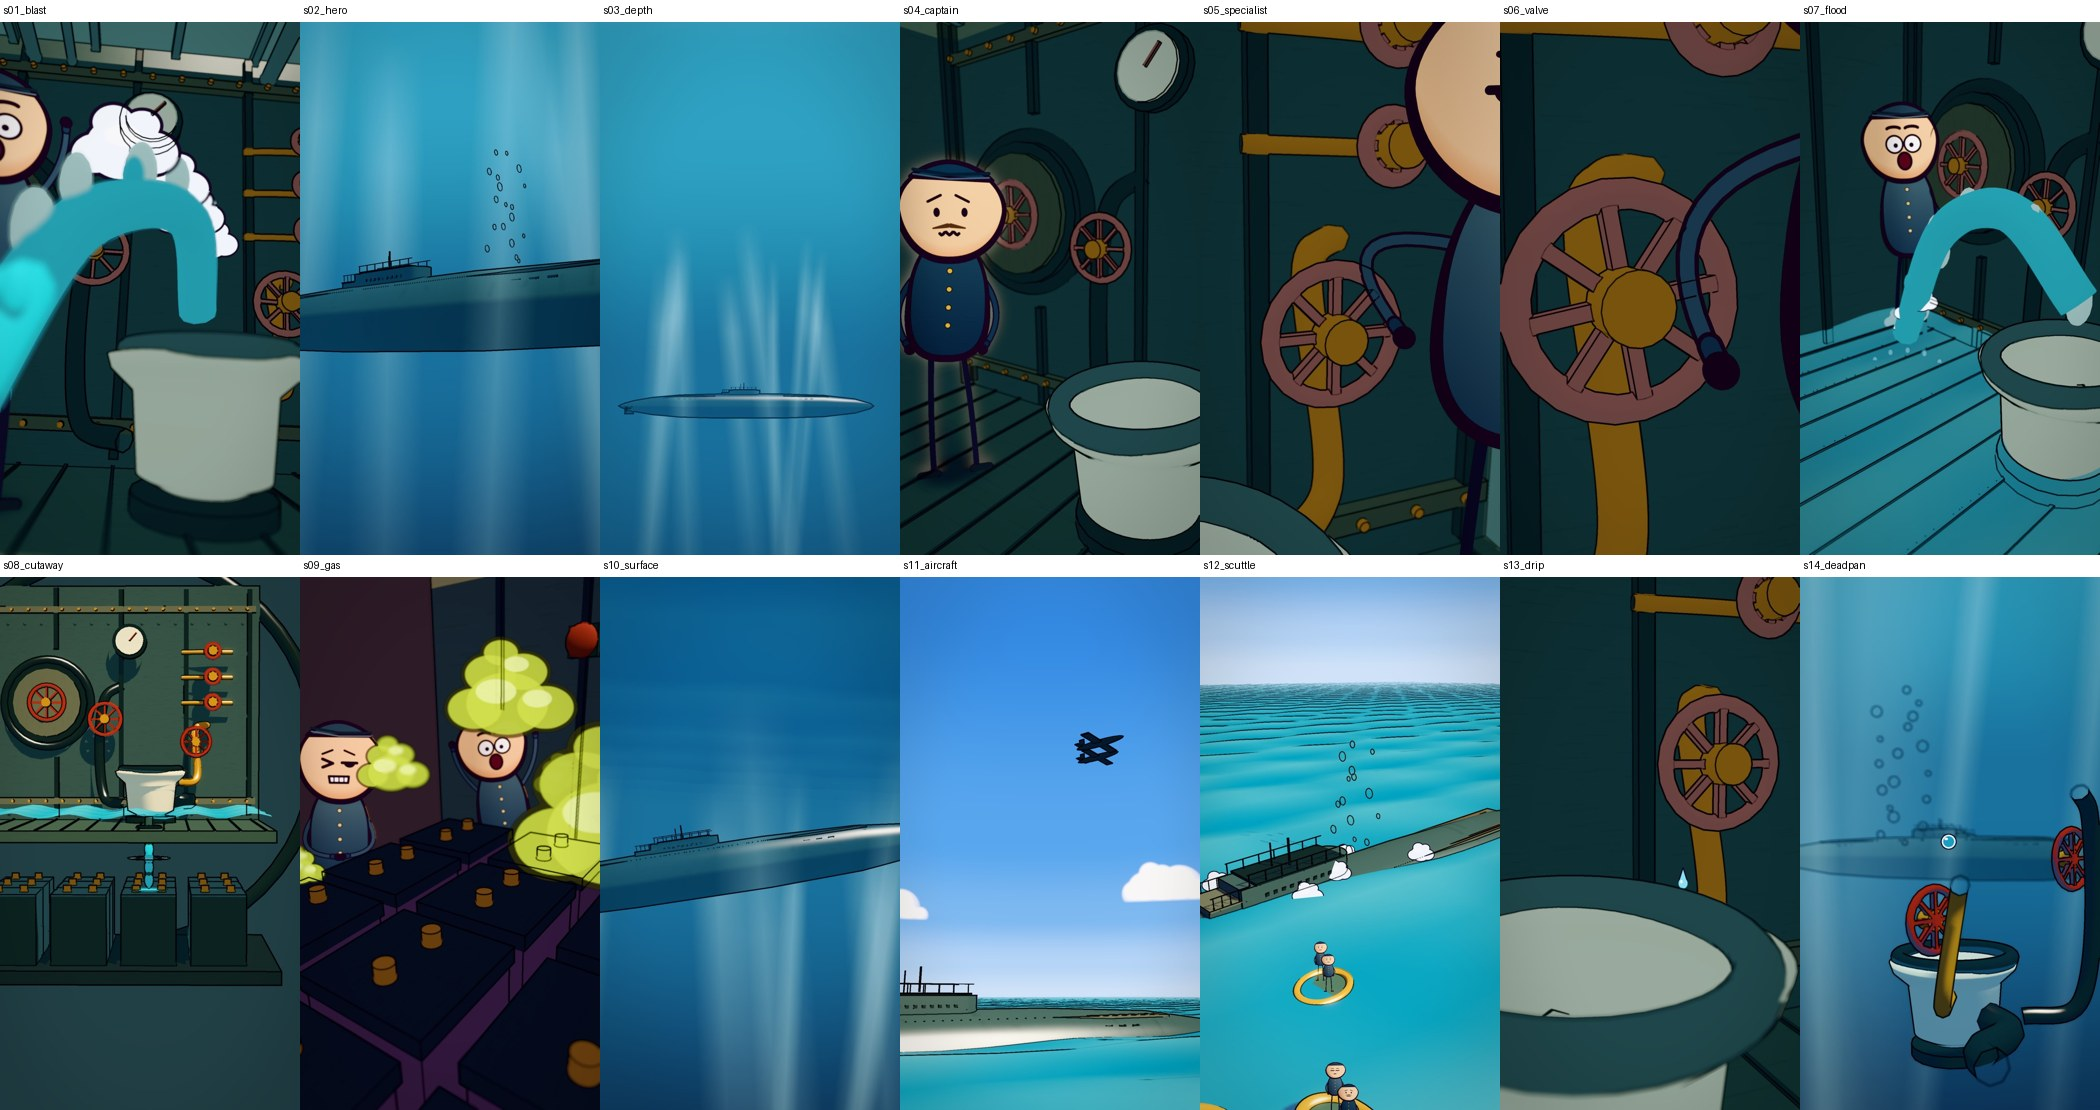
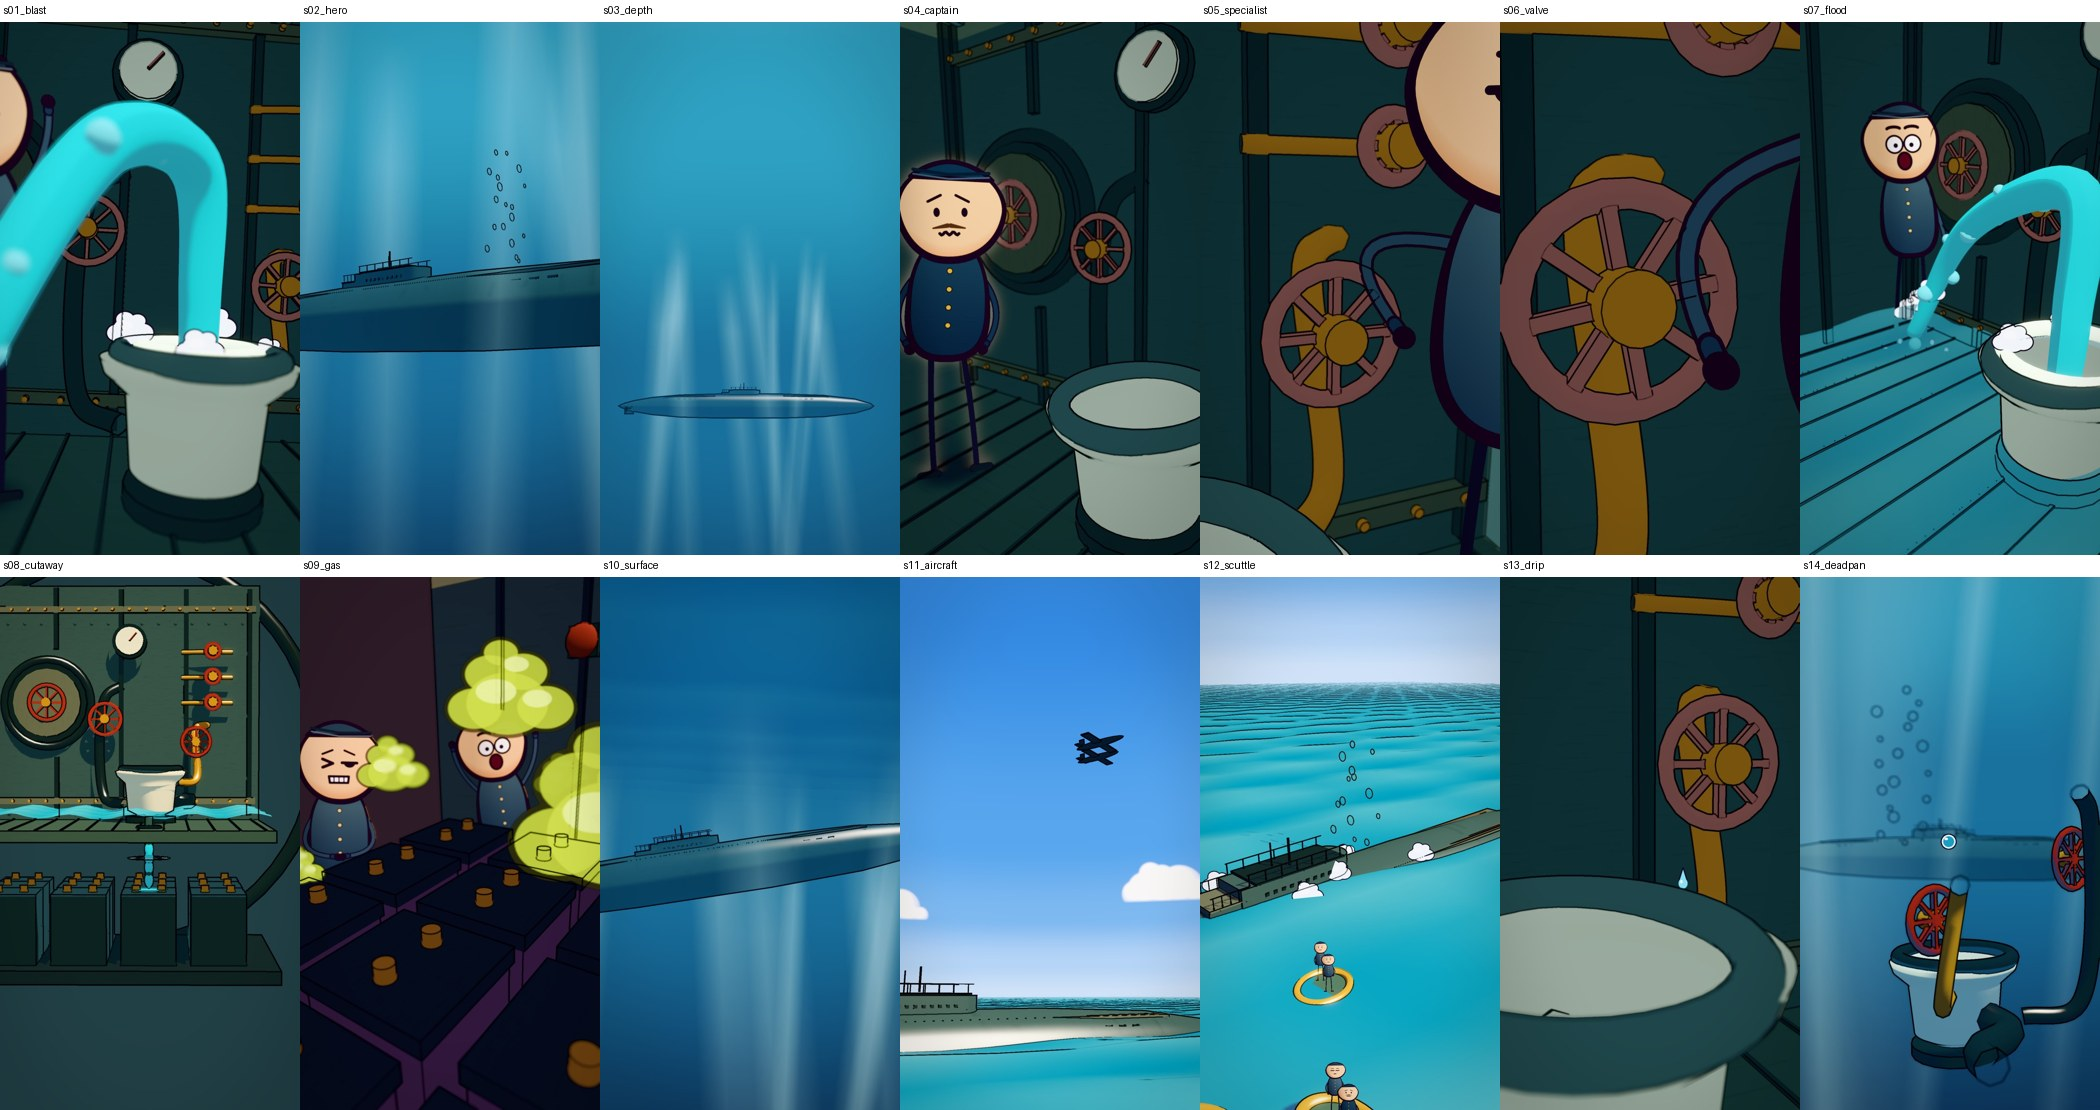
U-1206 Gate 1: water erupts from inside the bowl (owner review), re-rendered shots 01 and 07
Claude-Session: https://claude.ai/code/session_0143MgsU7onXKtoYan9MLxbi

Changed region(s): [[0.0, 0.0, 0.1548, 0.4595], [0.8976, 0.1532, 1.0, 0.3676]]

diff --git a/src/videos/u1206/world.ts b/src/videos/u1206/world.ts
@@ -17,7 +17,7 @@ import { finish } from "./materials";
 import { CREW, CAPTAIN } from "./cast";
 import {
   createCompartment, createSection, createBatteryRoom, createSubmarine, createToilet, createAircraft, createRaft, createBubbles,
-  createWarningLamp, createGasCue, createWaterSurface, createAnimatedBlast, createCutawayFlow, setValveAngle, setHatchAngle,
+  createWarningLamp, createGasCue, createWaterSurface, createCutawayFlow, setValveAngle, setHatchAngle,
 } from "../../../videos/u1206-toilet-disaster/assets/index.js";
 import { FPS, SHOTS, V3, Look, COMP, SECT, BATT, camAt, subAt, smooth, clamp01, BLAST_F, FLOOD_F, SURF_KEEL, DEPTH_KEEL, TOILET14 } from "./story";
 
@@ -70,6 +70,46 @@ const fxDrop = (p: Pen) => { p.poly([[64, 20], [96, 120], [64, 168], [32, 120]].
 /** a rising bubble ring, 160 x 160 */
 const fxBubbleRing = (p: Pen) => { p.ell(80, 80, 60, 60, "#d9f6ff", 9); p.ell(80, 80, 44, 44, "#3c8cb0", 0); p.ell(60, 58, 14, 10, "#ffffff", 0); };
 
+/** the toilet geyser (Gate 1 owner note: the water must visibly come OUT OF THE BOWL, not out of the air above it).
+ *  Room-local curve that starts inside the bowl below the rim, rises straight out of it, then arcs to its target.
+ *  Tapered stream + pale core revealed along its length (draw range) + droplets riding the curve; t = seconds since
+ *  the blast started (< 0 = hidden). Story-scoped replacement for the Codex createAnimatedBlast arc, which began 25 cm
+ *  above the rim. */
+const BOWL_SRC: V3 = [0.35, 0.36, -0.55]; // inside the bowl (lathe inner floor ~0.32 m, rim ~0.57 m), room-local
+const makeGeyser = (pts: V3[]) => {
+  const group = new THREE.Group(), curve = new THREE.CatmullRomCurve3(pts.map((p) => V(...p)), false, "centripetal");
+  const SEG = 64, RAD = 12;
+  const tube = (r0: number, r1: number, r2: number, col: string) => {
+    const g = new THREE.TubeGeometry(curve, SEG, 1, RAD, false), pos = g.getAttribute("position");
+    for (let i = 0; i < pos.count; i++) {
+      const seg = Math.floor(i / (RAD + 1)), u = seg / SEG, c = curve.getPointAt(u);
+      const r = u < 0.35 ? r0 + (r1 - r0) * (u / 0.35) : r1 + (r2 - r1) * ((u - 0.35) / 0.65);
+      pos.setXYZ(i, c.x + (pos.getX(i) - c.x) * r, c.y + (pos.getY(i) - c.y) * r, c.z + (pos.getZ(i) - c.z) * r);
+    }
+    g.computeVertexNormals();
+    const m = new THREE.Mesh(g, twoTone(new THREE.MeshLambertMaterial({ color: col }))); m.layers.set(NOINK); group.add(m); return m;
+  };
+  // TubeGeometry samples by arc length (getPointAt) for its rings: the per-ring centres above match
+  const stream = tube(0.075, 0.1, 0.06, "#52c6dc"), core = tube(0.035, 0.05, 0.025, "#e8fbf6");
+  const foam = new THREE.Mesh(new THREE.TorusGeometry(0.3, 0.05, 8, 32), twoTone(new THREE.MeshLambertMaterial({ color: "#e8fbf6" })));
+  foam.rotation.x = Math.PI / 2; foam.position.set(BOWL_SRC[0], 0.6, BOWL_SRC[2]); foam.layers.set(NOINK); group.add(foam); // churn just inside the rim
+  const dropMat = twoTone(new THREE.MeshLambertMaterial({ color: "#7fd2ea" })), drops: THREE.Mesh[] = [];
+  for (let i = 0; i < 14; i++) { const d = new THREE.Mesh(new THREE.SphereGeometry(0.035 + (i % 3) * 0.012, 10, 8), dropMat); d.layers.set(NOINK); group.add(d); drops.push(d); }
+  const idx = stream.geometry.index!.count;
+  const update = (t: number) => {
+    group.visible = t > 0;
+    if (!group.visible) return;
+    const grow = smooth(t / 0.3), n = Math.max(6, Math.round((idx * grow) / (RAD * 6)) * RAD * 6);
+    stream.geometry.setDrawRange(0, n); core.geometry.setDrawRange(0, n);
+    foam.scale.setScalar(0.85 + 0.15 * Math.sin(t * 20));
+    drops.forEach((d, i) => {
+      const u = (((t * 0.9 + i / 14) % 1) + 1) % 1; d.visible = u < grow;
+      const c = curve.getPointAt(Math.min(1, u)); d.position.set(c.x + Math.sin(i * 4.1 + t * 5) * 0.09 * u, c.y + 0.05 * Math.sin(i * 2.3), c.z + Math.cos(i * 3.7 + t * 4) * 0.09 * u);
+    });
+  };
+  return { group, curve, update };
+};
+
 export class World {
   root = new THREE.Group();
   private sky: SkyRig;
@@ -82,7 +122,7 @@ export class World {
   private sub: THREE.Group; private ocean: { mesh: THREE.Mesh; update: (t: number) => void };
   private floodWater: { mesh: THREE.Mesh; update: (t: number) => void };
   private deckWater: { mesh: THREE.Mesh; update: (t: number) => void };
-  private blast: { group: THREE.Group; update: (t: number) => void }; private blastPivot = new THREE.Group();
+  private geysers: Record<string, ReturnType<typeof makeGeyser>> = {};
   private flow: { group: THREE.Group; update: (t: number) => void };
   private lamp: THREE.Group; private gasCue: THREE.Group;
   private aircraft: THREE.Group[] = []; private rafts: THREE.Group[] = [];
@@ -128,13 +168,17 @@ export class World {
       g.position.set(...o); return g;
     };
     const roomEncl = encl(COMP, 3.2, 2.7, 2.7); R.add(roomEncl);
-    // flood: an interior water surface bounded by the room walls, and the Codex blast re-aimed at the doorway (pivot = connector)
+    // flood: an interior water surface bounded by the room walls, and the geyser out of the bowl (one aim per shot)
     this.floodWater = createWaterSurface({ width: 3.1, depth: 2.62, segments: 36, level: 0.16, amplitude: 0.035, period: 0.7, color: "#3e9fb8", opacity: 0.8 });
     twoTone(this.floodWater.mesh.material as THREE.MeshLambertMaterial); this.floodWater.mesh.layers.set(NOINK); this.room.add(this.floodWater.mesh);
-    this.blast = createAnimatedBlast(); finish(this.blast.group);
-    this.blastPivot.position.set(0.35, 0.84, -0.6); this.blast.group.position.set(-0.35, -0.84, 0.6);
-    this.blastPivot.add(this.blast.group); this.room.add(this.blastPivot);
-    this.blast.group.traverse((o) => { if ((o as THREE.Mesh).isMesh) o.layers.set(NOINK); }); // tubes carry no world ink (hard rims read as plastic)
+    const [bx, by, bz] = BOWL_SRC;
+    this.geysers = {
+      // 01: straight up out of the bowl, curling over toward the lens / the sailor at screen-left
+      s01_blast: makeGeyser([[bx, by, bz], [bx, 0.8, bz], [bx - 0.05, 1.3, bz + 0.1], [bx - 0.35, 1.25, bz + 0.5], [-0.45, 0.25, 0.3]]),
+      // 07: out of the bowl and over to the doorway, landing on the braced sailor's boots
+      s07_flood: makeGeyser([[bx, by, bz], [bx, 0.8, bz], [bx - 0.1, 1.3, bz - 0.1], [-0.55, 1.0, -0.85], [-1.1, 0.12, -0.9]]),
+    };
+    for (const g of Object.values(this.geysers)) this.room.add(g.group);
     // valve wheels by role: the two on the toilet's pipes (low = right/brass line, high = left/outlet line)
     R.updateMatrixWorld(true);
     const wheels: { n: number; p: THREE.Vector3; toilet: boolean }[] = [];
@@ -249,9 +293,7 @@ export class World {
     const blastK = key === "s01_blast" ? (f - BLAST_F) / FPS : key === "s07_flood" ? (f - FLOOD_F) / FPS + 1.2 : -1;
     setValveAngle(this.room, this.wheel.low, key === "s01_blast" ? -1.6 * smooth((f - BLAST_F + 8) / 8) : key === "s06_valve" ? -0.6 : 0);
     setHatchAngle(this.room, 0);
-    this.blastPivot.visible = blastK > 0;
-    this.blastPivot.rotation.set(0, key === "s07_flood" ? -1.0 : 0, 0); this.blastPivot.scale.setScalar(key === "s07_flood" ? 1.12 : 1);
-    this.blast.update(Math.max(0, blastK));
+    for (const [k, g] of Object.entries(this.geysers)) { g.update(k === key ? blastK : -1); }
     this.floodWater.mesh.visible = key === "s07_flood"; this.floodWater.update(t);
     this.deckWater.update(t); this.flow.update(t);
     const lampOn = Math.sin(t * 9) > -0.2; (this.lamp.getObjectByName("lamp-glow") as THREE.Mesh).visible = lampOn;
@@ -296,7 +338,8 @@ export class World {
       case "s01_blast": {
         const p = at(COMP, -0.5, 0, -0.45), u = clamp01((f - BLAST_F) / 10);
         P(2, CREW, "sailor", p, { mode: "stand", expr: u > 0 ? "shock" : "worried", pose: u > 0 ? "up" : undefined, tilt: u > 0 ? -7 : 0 });
-        if (u > 0) for (let k = 0; k < 4; k++) puff(COMP[0] + 0.35 - 0.12 * k, 1.05 + 0.06 * k, -0.45 + 0.12 * k, 0.32 + 0.06 * k, k);
+        // spray bursts AT THE RIM (the source), not in mid-air
+        if (u > 0) for (let k = 0; k < 4; k++) { const a = k * 1.7; puff(COMP[0] + 0.35 + Math.cos(a) * 0.3, 0.62 + 0.03 * k, -0.55 + Math.sin(a) * 0.25, 0.2 + 0.04 * k, k); }
         break;
       }
       case "s04_captain": {
@@ -317,7 +360,8 @@ export class World {
       case "s07_flood": {
         const p = at(COMP, -1.2, 0, -0.95), frame = at(COMP, -0.85 - 0.5, 1.35, -1.2);
         P(2, CREW, "sailor", p, { mode: "stand", expr: "shock", pose: "grip", hands: grip(p, frame, null), tilt: -5 });
-        const end = this.blast.group.localToWorld(V(-0.4, 0.26, 0.35)), u = ((t * 1.6) % 1);
+        const end = this.room.localToWorld(this.geysers.s07_flood.curve.getPointAt(1).clone()), u = ((t * 1.6) % 1);
+        for (let k = 0; k < 3; k++) { const a = k * 2.1; puff(COMP[0] + 0.35 + Math.cos(a) * 0.3, 0.7, -0.55 + Math.sin(a) * 0.25, 0.25, k); }
         splash(end.x, COMP[1] + 0.16, end.z, 0.9, u); for (let k = 0; k < 3; k++) puff(end.x + 0.1 * k, 0.32 + 0.1 * k, end.z + 0.05, 0.3, k);
         break;
       }

diff --git a/src/videos/u1206/story.ts b/src/videos/u1206/story.ts
@@ -77,7 +77,7 @@ export const subAt = (key: string, f: number): V3 => {
 const C = (o: V3, p: V3): V3 => add(o, p);
 const S: Record<string, (f: number) => Shot> = {
   // 01 ECU low angle on the valve, bowl visible; snap-push toward the jet on the blast, then hold
-  s01_blast: (f) => { const k = smooth((f - BLAST_F - 2) / 5); return dolly(C(COMP, [0.0, 0.42, 1.3]), C(COMP, [0.12, 0.88, -0.7]), 1 - 0.12 * k, { fov: 68, roll: 0.05 }); },
+  s01_blast: (f) => { const k = smooth((f - BLAST_F - 2) / 5); return dolly(C(COMP, [0.05, 0.8, 1.3]), C(COMP, [0.15, 0.85, -0.7]), 1 - 0.12 * k, { fov: 68, roll: 0.05 }); }, // just above rim height: the bowl opening (the source) stays visible
   // 02 underwater 3/4 from slightly below, tilting up as the hull passes
   s02_hero: (f) => { const s = subAt("s02_hero", f); return dolly([-34, DEPTH_KEEL + 1, s[2] + 34], [s[0], DEPTH_KEEL + 4 + 0.03 * (f - F(1.6)), s[2] + 6], pushK(f, F(1.6), 0.0015), { fov: 55, roll: -0.03 }); },
   // 03 side profile, deep water; the hazy surface light far above (tilt up toward it)

diff --git a/videos/u1206-toilet-disaster/GATE1-STILLS.md b/videos/u1206-toilet-disaster/GATE1-STILLS.md
@@ -26,8 +26,12 @@ shot list (`SHOTLIST.md`) are unchanged.
 - Hand contact is computed per camera: the valve-rim point is projected along the view ray into the card plane.
 
 ## Known limitations to judge (not fixed yet)
-- The Codex blast is a solid tube with hard edges (shots 01 and 07). It needs a softer stream before Gate 2.
-- 07: the sailor's bracing hand on the door frame does not show. The blast lands near his boots, not on them.
+- **Owner review 1 (fixed):** the water seemed to shoot out of the air above the toilet. The Codex
+  `createAnimatedBlast` arc started 25 cm above the rim. It is replaced in shots 01 and 07 by a story-scoped geyser
+  (`makeGeyser` in world.ts). The water now starts inside the bowl, rises straight out of it with foam at the rim, then
+  arcs. In 01 the camera sits just above rim height so the bowl opening shows. The stream is still a solid tube; it
+  will be softened in Gate 2.
+- 07: the sailor's bracing hand on the door frame does not show. The stream lands just in front of his boots.
 - 05/06: the hand dot meets the rim. 06 is a locked ECU, so the gauge needle is out of frame.
 - 09: the warning lamp shows but has little glow. Cells and shade look purple under the alarm light.
 - 11: the boat is cropped at the bottom of the frame mid-tilt, and only one aircraft is in frame.
